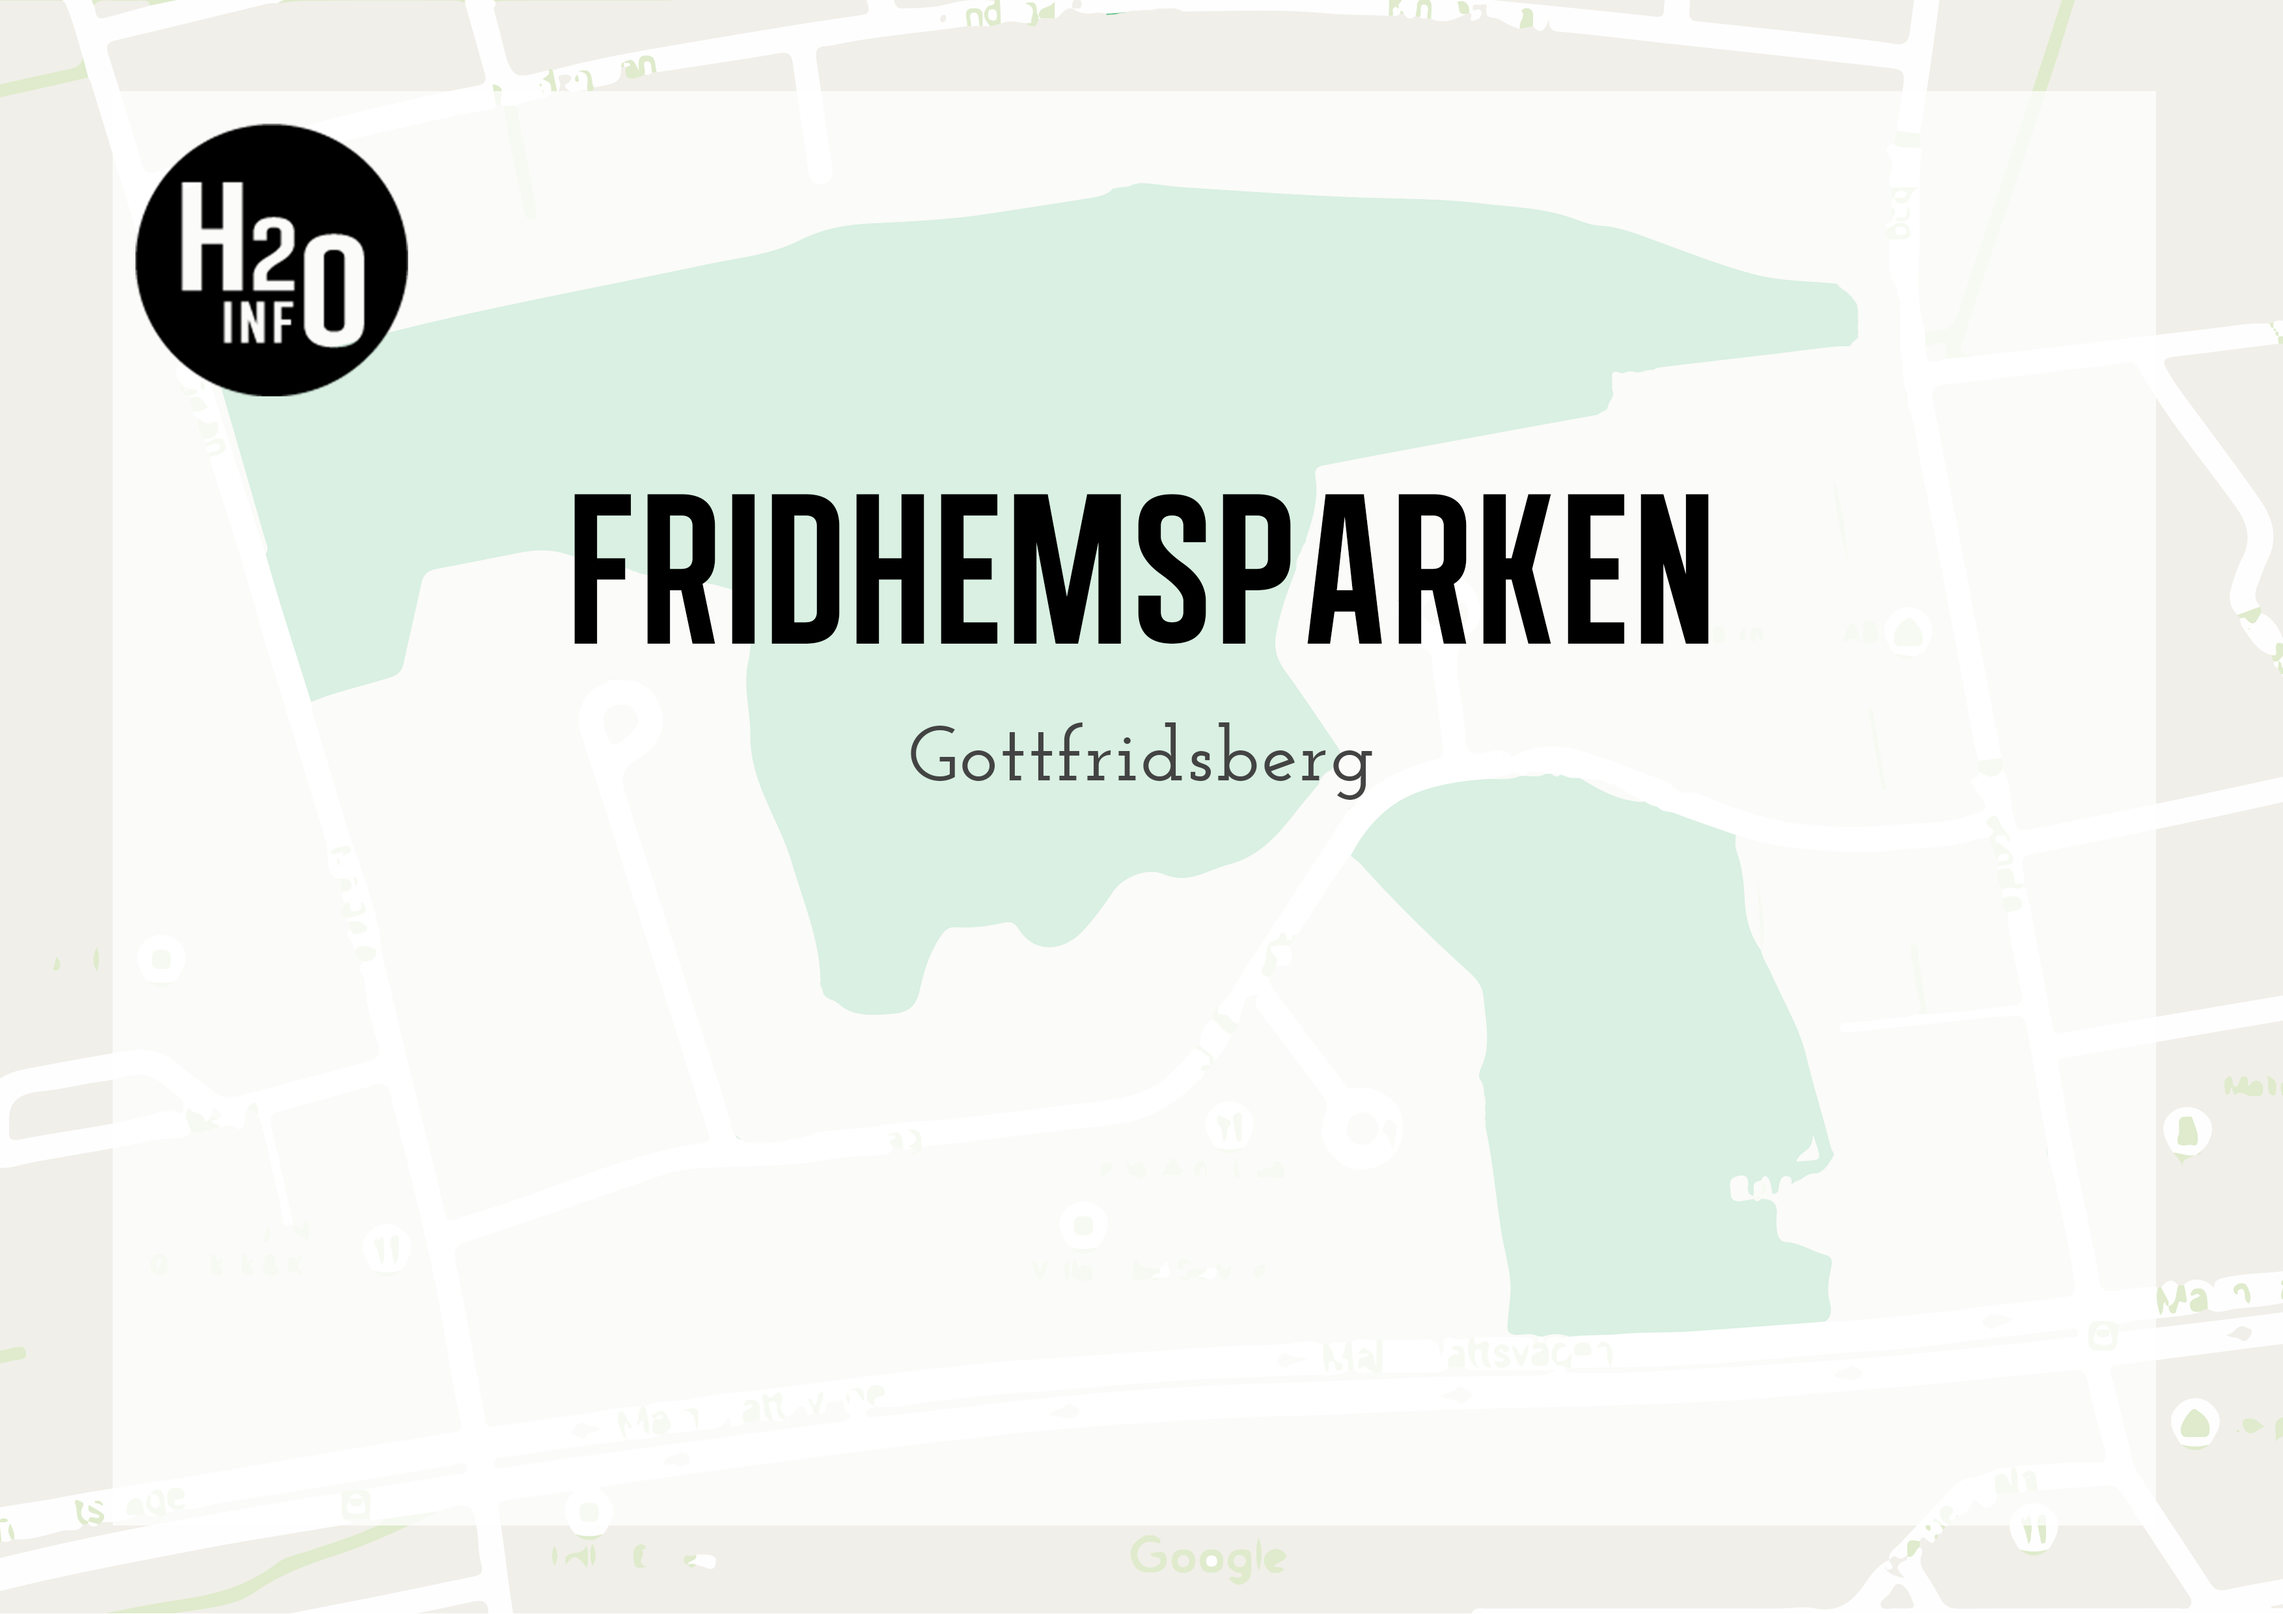
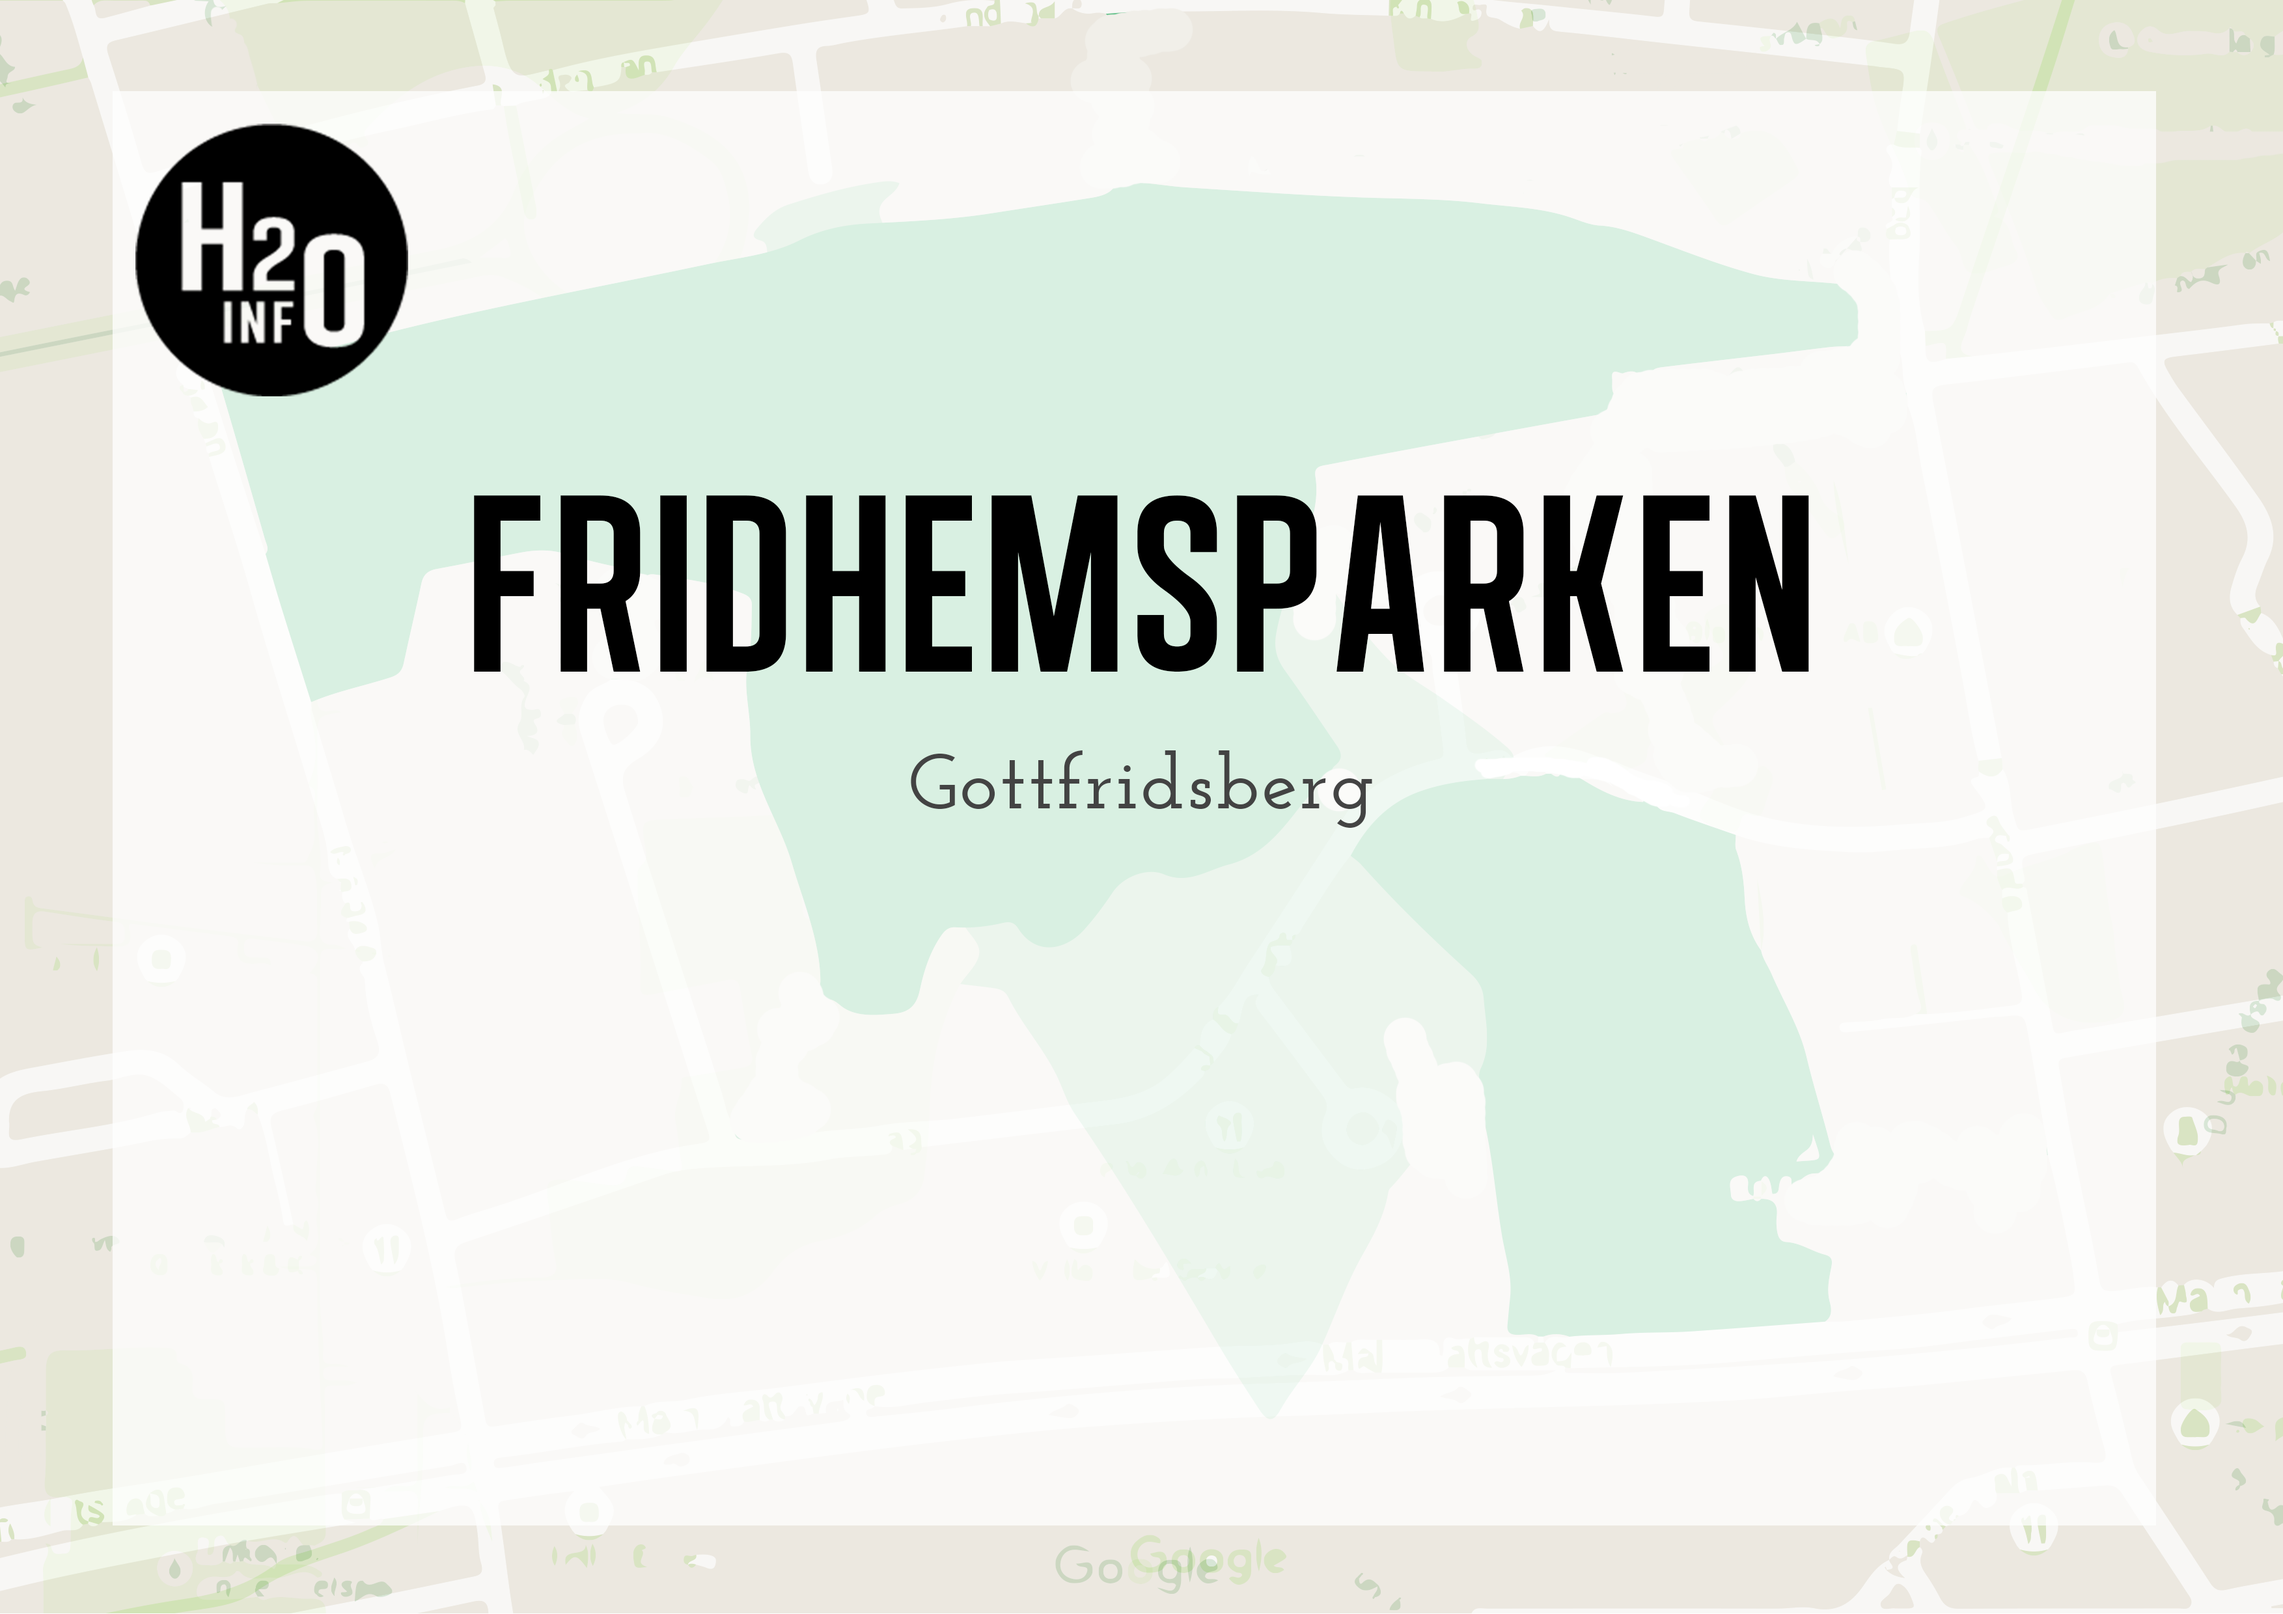
added en massa skit

diff --git a/index.html b/index.html
@@ -10,20 +10,23 @@
 	// 	header("Location: admin.php");	}	
 	// include('include.inc.php');
 	// db_connect(); 
-
 	
 ?>
+
 <html>
 	<head>
 		<title>Lens by HTML5 UP</title>
 		<meta charset="utf-8" />
 		<meta name="viewport" content="width=device-width, initial-scale=1" />
 		<!--[if lte IE 8]><script src="assets/js/ie/html5shiv.js"></script><![endif]-->
+		<link rel="stylesheet" href="extended.css"/>
 		<link rel="stylesheet" href="assets/css/main.css" />
 		<!--[if lte IE 8]><link rel="stylesheet" href="assets/css/ie8.css" /><![endif]-->
 		<!--[if lte IE 9]><link rel="stylesheet" href="assets/css/ie9.css" /><![enlldif]-->
 		
 		<script src="js/getData.js"></script>
+
+		
 		<script src="https://ajax.googleapis.com/ajax/libs/jquery/1.11.3/jquery.min.js"></script>
 		<noscript><link rel="stylesheet" href="assets/css/noscript.css" /></noscript>
 	</head>
@@ -39,7 +42,7 @@
 
 				<!-- Header -->
 					<header id="header">
-						<h1>Lens</h1>
+						<h1>Linköpings kommun</h1>
 						<p>Just another fine responsive site template by <a href="http://html5up.net">HTML5 UP</a></p>
 						<ul class="icons">
 							<li><a href="#" class="icon fa-twitter"><span class="label">Twitter</span></a></li>
@@ -52,66 +55,50 @@
 				<!-- Thumbnail -->
 					<section id="thumbnails">
 						<article>
-							<a class="thumbnail" href="images/fulls/01.jpg" data-position="left center"><img src="images/thumbs/01.jpg" alt="" /></a>
-							<h2>Diam tempus accumsan</h2>
-							<p>Lorem ipsum dolor sit amet, consectetur adipiscing elit.</p>
+							<a class="thumbnail" href="images/Kartor/fridhem1.png" data-position="left center"><img src="images/Kartor/fridhem1.1.png" alt="" /></a>
 						</article>
 						<article>
-							<a class="thumbnail" href="images/fulls/02.jpg"><img src="images/thumbs/02.jpg" alt="" /></a>
-							<h2>Vivamus convallis libero</h2>
-							<p>Sed velit lacus, laoreet at venenatis convallis in lorem tincidunt.</p>
+							<a class="thumbnail" href="images/kartor/fridhem1.1.png"></a>
+							<div class="infoText">
+								<h2>Vivamus convallis libero</h2>
+								<p>Sed velit lacus, laoreet at venenatis convallis in lorem tincidunt.</p>
+							</div>
 						</article>
 						<article>
-							<a class="thumbnail" href="images/fulls/03.jpg" data-position="top center"><img src="images/thumbs/03.jpg" alt="" /></a>
-							<h2>Nec accumsan enim felis</h2>
-							<p>Maecenas eleifend tellus ut turpis eleifend, vitae pretium faucibus.</p>
+							<a class="thumbnail" href="images/kartor/tradgard1.png" data-position="top center"><img src="images/kartor/tradgard1.png" alt="" /></a>
+				
 						</article>
 						<article>
-							<a class="thumbnail" href="images/fulls/04.jpg"><img src="images/thumbs/04.jpg" alt="" /></a>
-							<h2>Donec maximus nisi eget</h2>
-							<p>Tristique in nulla vel congue. Sed sociis natoque parturient nascetur.</p>
+							<a class="thumbnail" href="images/kartor/tradgard2.png"></a>
+							
+							<div class="infoText">
+								<h2>Vivamus convallis libero</h2>
+								<p>Sed velit lacus, laoreet at venenatis convallis in lorem tincidunt.</p>
+							</div>
 						</article>
 						<article>
 							<a class="thumbnail" href="images/fulls/05.jpg" data-position="top center"><img src="images/thumbs/05.jpg" alt="" /></a>
-							<h2>Nullam vitae nunc vulputate</h2>
-							<p>In pellentesque cursus velit id posuere. Donec vehicula nulla.</p>
+							
 						</article>
 						<article>
 							<a class="thumbnail" href="images/fulls/06.jpg"><img src="images/thumbs/06.jpg" alt="" /></a>
-							<h2>Phasellus magna faucibus</h2>
-							<p>Nulla dignissim libero maximus tellus varius dictum ut posuere magna.</p>
+							<div class="infoText">
+								<h2>Vivamus convallis libero</h2>
+								<p>Sed velit lacus, laoreet at venenatis convallis in lorem tincidunt.</p>
+							</div>
 						</article>
 						<article>
 							<a class="thumbnail" href="images/fulls/07.jpg"><img src="images/thumbs/07.jpg" alt="" /></a>
-							<h2>Proin quis mauris</h2>
-							<p>Etiam ultricies, lorem quis efficitur porttitor, facilisis ante orci urna.</p>
+							
 						</article>
 						<article>
 							<a class="thumbnail" href="images/fulls/08.jpg"><img src="images/thumbs/08.jpg" alt="" /></a>
-							<h2>Gravida quis varius enim</h2>
-							<p>Nunc egestas congue lorem. Nullam dictum placerat ex sapien tortor mattis.</p>
+							<div class="infoText">
+								<h2>Vivamus convallis libero</h2>
+								<p>Sed velit lacus, laoreet at venenatis convallis in lorem tincidunt.</p>
+							</div>
 						</article>
-						<article>
-							<a class="thumbnail" href="images/fulls/09.jpg"><img src="images/thumbs/09.jpg" alt="" /></a>
-							<h2>Morbi eget vitae adipiscing</h2>
-							<p>In quis vulputate dui. Maecenas metus elit, dictum praesent lacinia lacus.</p>
-						</article>
-						<article>
-							<a class="thumbnail" href="images/fulls/10.jpg"><img src="images/thumbs/10.jpg" alt="" /></a>
-							<h2>Habitant tristique senectus</h2>
-							<p>Vestibulum ante ipsum primis in faucibus orci luctus ac tincidunt dolor.</p>
-						</article>
-						<article>
-							<a class="thumbnail" href="images/fulls/11.jpg"><img src="images/thumbs/11.jpg" alt="" /></a>
-							<h2>Pharetra ex non faucibus</h2>
-							<p>Ut sed magna euismod leo laoreet congue. Fusce congue enim ultricies.</p>
-						</article>
-						<article>
-							<a class="thumbnail" href="images/fulls/12.jpg"><img src="images/thumbs/12.jpg" alt="" /></a>
-							<h2>Mattis lorem sodales</h2>
-							<p>Feugiat auctor leo massa, nec vestibulum nisl erat faucibus, rutrum nulla.</p>
-						</article>
-					</section>
+					</section> 
 
 				<!-- Footer -->
 					<footer id="footer">

diff --git a/assets/js/main.js b/assets/js/main.js
@@ -250,7 +250,7 @@ var main = (function($) { var _ = {
 								delta = 50;
 
 						// Swipe left (next).
-							if ( (diffY < boundary && diffY > (-1 * boundary)) && (diffX > delta) )
+							if ( (diffY < boundary && diffY > (-1 * boundary)) && (diffX > delta) ) 
 								_.next();
 
 						// Swipe right (previous).
@@ -347,7 +347,10 @@ var main = (function($) { var _ = {
 				});
 
 		// Nav.
+		// FIXME, lägg till en annan funktion som ändrar till vår bild istället
 			_.$navNext.on('click', function() {
+
+				// document.getElementById("img1").src = "images/fulls/landingpage.jpg";
 				_.next();
 			});
 
@@ -416,15 +419,19 @@ var main = (function($) { var _ = {
 						$thumbnail = $this.children('.thumbnail'),
 						s;
 
+					var urlName = "images/kartor/fridhem1"+.1+".png"
+
 					// Slide object.
 						s = {
 							$parent: $this,
 							$slide: null,
 							$slideImage: null,
 							$slideCaption: null,
-							url: $thumbnail.attr('href'),
+							url: $thumbnail.attr('href'),  //ändra url här  "images/kartor/fridhem1.png"
 							loaded: false
 						};
+
+
 
 					// Parent.
 						$this.attr('tabIndex', '-1');
@@ -642,20 +649,28 @@ var main = (function($) { var _ = {
 	},
 
 	/**
-	 * Switches to the next slide.
+	 * Switches to the next slide. FIXME
 	 */
 	next: function() {
 
 		// Calculate new index.
 			var i, c = _.current, l = _.slides.length;
 
+			console.log("c: " + c);
+			// console.log("i: " + i);
+			console.log("l: " + l);
 			if (c >= l - 1)
 				i = 0;
 			else
 				i = c + 1;
 
+			// if(c%2 != 0) _.switchTo(i);
+			// else i = 0; 
+				
+
 		// Switch.
-			_.switchTo(i);
+		_.switchTo(i);
+			
 
 	},
 

diff --git a/assets/css/main.css b/assets/css/main.css
@@ -1,5 +1,5 @@
 @import url(font-awesome.min.css);
-@import url("http://fonts.googleapis.com/css?family=Roboto:400,700");
+@import url("https://www.google.com/fonts#ChoosePlace:select/Collection:Josefin+Slab");
 
 /*
 	Lens by HTML5 UP
@@ -719,7 +719,7 @@
 		top: 0;
 		width: 22.5em;
 		height: 100%;
-		background: #fff;
+		background: black;
 		outline: 0;
 		overflow-x: hidden;
 		overflow-y: auto;
@@ -787,7 +787,7 @@
 				-ms-transition: opacity 0.5s ease, visibility 0.5s;
 				transition: opacity 0.5s ease, visibility 0.5s;
 				width: 100%;
-				background: #fff;
+				background: ;
 				text-align: center;
 			}
 
@@ -849,6 +849,9 @@
 		flex-wrap: wrap;
 		padding: 0 0.75em;
 	}
+		#thumbnails article .thumbnail#hidden{
+			display: none;
+		}
 
 		#thumbnails article {
 			position: relative;
@@ -909,6 +912,7 @@
 			}
 
 		}
+
 
 /* Viewer */
 
@@ -993,7 +997,7 @@
 			-webkit-pointer-events: none;
 			-ms-pointer-events: none;
 			pointer-events: none;
-			position: absolute;
+			position: absolute;  /*FIXME*/
 			top: 0;
 			left: 0;
 			width: 100%;

diff --git a/extended.css b/extended.css
@@ -2,10 +2,10 @@ body{
 
 	background-image: url("images/extended/landing.png");
 	background-position: center center;
-	background-repeat: no-repeat;
+	background-rcepeat: no-repeat;
 	background-attachment: fixed;
-	 background-size: cover;
-	 background-color: #464646;
+	background-size: cover;
+	background-color: #464646;
 
 }
 
@@ -18,4 +18,10 @@ body{
 }
 #btn{
 	width: 100%;
+}
+
+.infoText{
+	font-size: 30px;
+	margin-bottom: 30%;
+	margin-left: 30%;
 }

diff --git a/landingpage.html b/landingpage.html
@@ -14,6 +14,9 @@
 				<img href="#" id="btn" src="images/extended/loggin.png">
 				<img href="#" id="btn" src="images/extended/om.png">
 			</ul>
+
+			<!-- <img id="hidden" src="images/fulls/04.jpg"> -->
+			
 	</body>
 </html>
 
